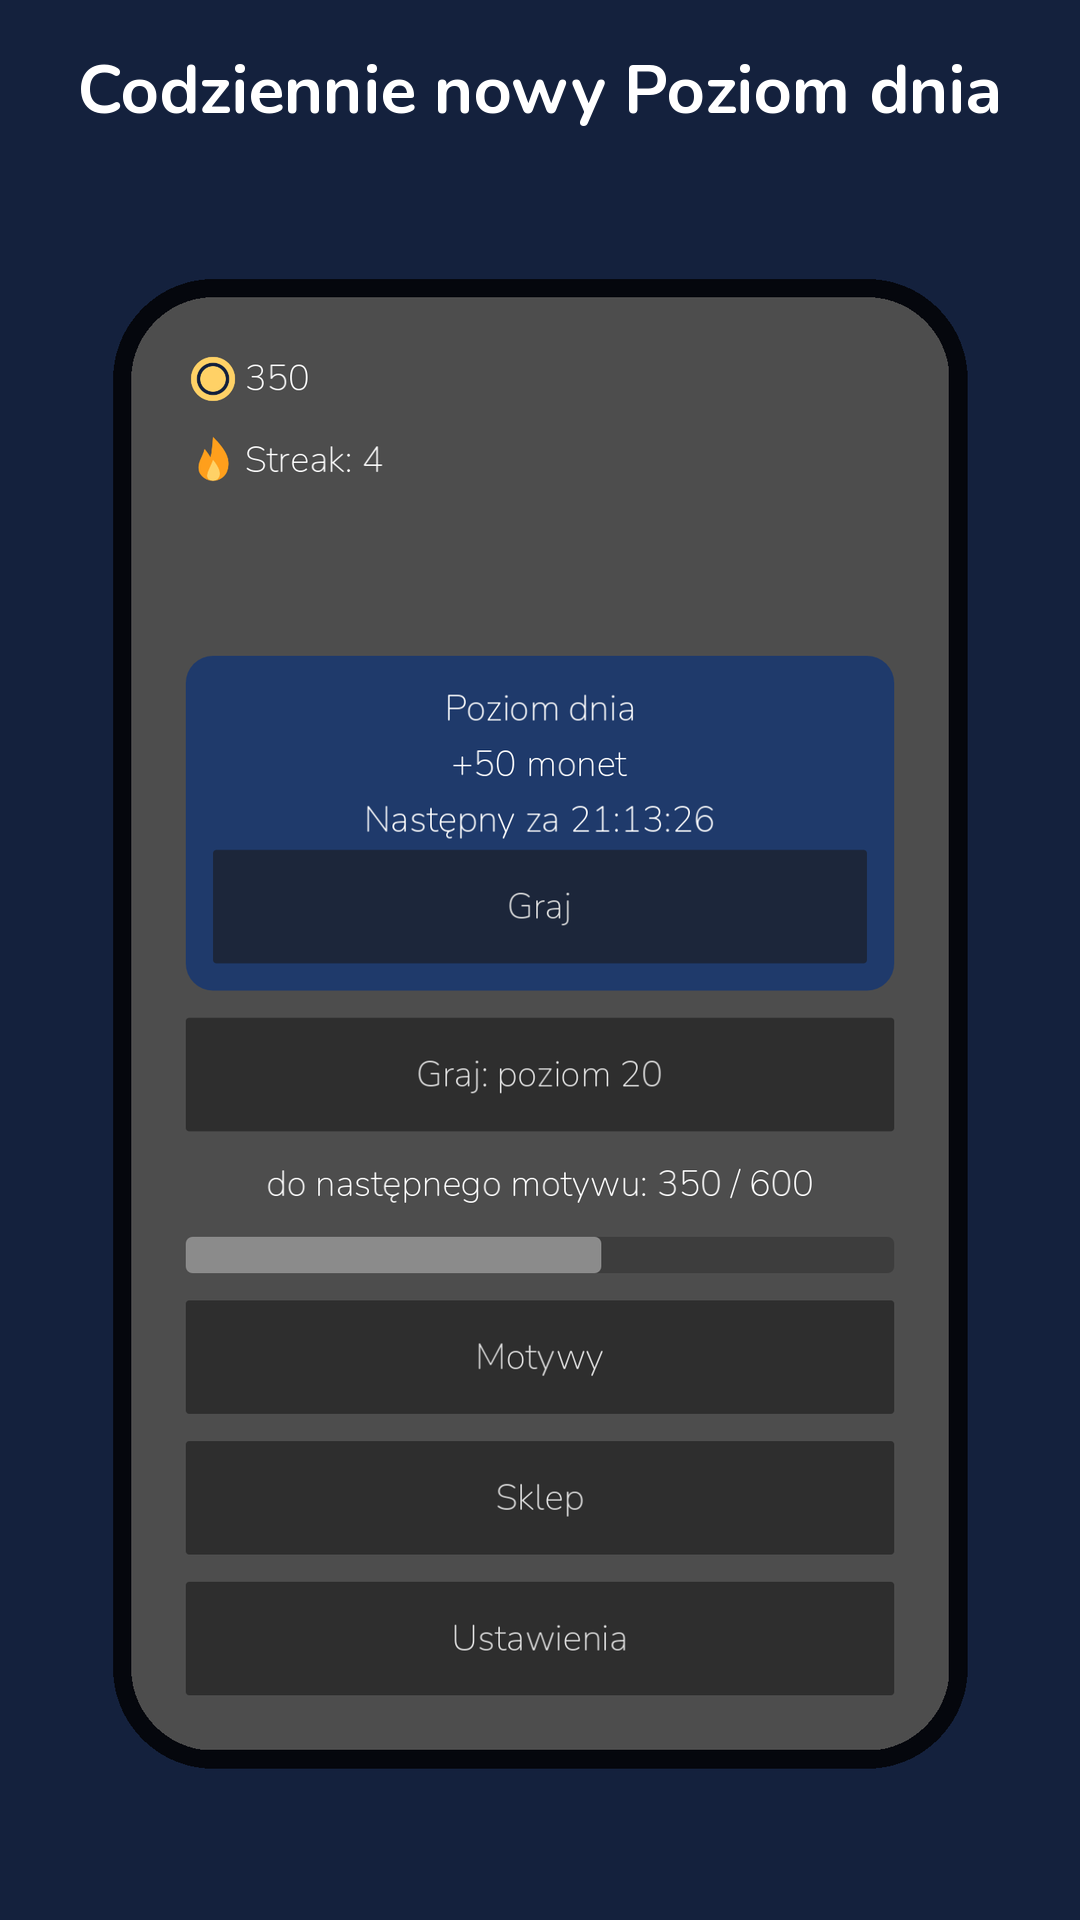
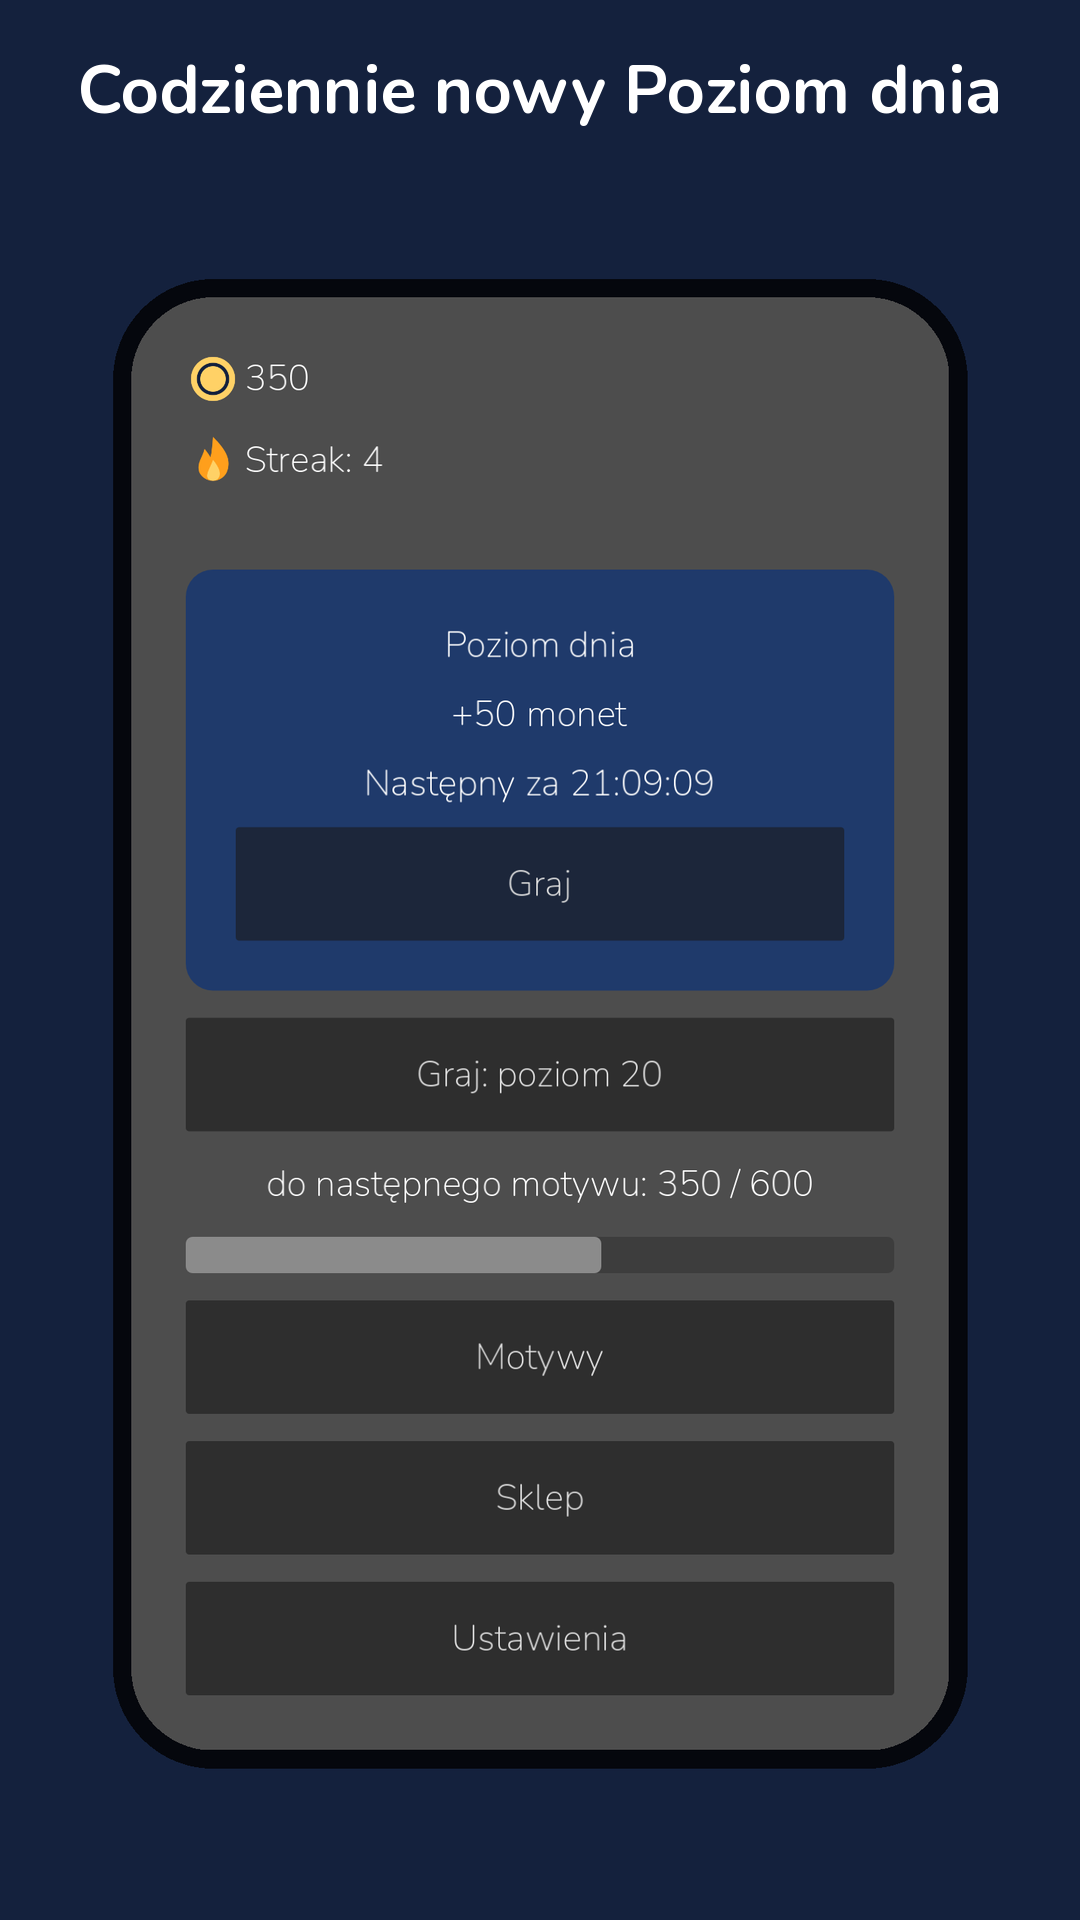
feat(T-061): odstępy w karcie Poziomu dnia na Home (CARD_PADDING/CARD_SEPARATION) + test + odświeżone screenshoty 03/04
Claude-Session: https://claude.ai/code/session_01UDf65fKwWNGfEucZKBXc7i

Changed region(s): [[0.1528, 0.2812, 0.825, 0.5]]

diff --git a/BACKLOG.md b/BACKLOG.md
@@ -48,7 +48,7 @@ Pętla bierze pierwsze `todo` z najwyższej sekcji. Zadania P0 muszą być `done
   KA: rysowanie warstw w `tube_view.gd` ograniczone do wnętrza probówki (np. dolna warstwa jako prostokąt + zaokrąglony spód o promieniu z sprite'a, albo `clip_children` z maską) dla obu kształtów z T-018; stałe proporcji jako nazwane `const`/klucze. Test gdUnit4: dla probówki pełnej i z 1 warstwą prostokąt/obrys dolnej warstwy mieści się w `Rect2` wnętrza probówki (z tolerancją 1 px) w obu kształtach. Kadr Level (01) obejrzany po `make screenshots`. `make check` zielone. ≤ ~100 linii.
   Skill: `godot-dev`
 
-- [ ] T-061 `todo` Home: odstęp nad przyciskiem „Graj” w karcie Poziomu dnia + regeneracja 15 screenshotów sklepowych (zależy od T-056, T-057, T-063) (przeniesione z Inbox)
+- [ ] T-061 `review` Home: odstęp nad przyciskiem „Graj” w karcie Poziomu dnia + regeneracja 15 screenshotów sklepowych (zależy od T-056, T-057, T-063) (przeniesione z Inbox) → PR #60
   KA: `separation` VBox karty z nazwanej stałej/stylu (≥ 12 px przy 1080×1920); test gdUnit4: odstęp między etykietą stanu a przyciskiem „Graj” ≥ stała. `make screenshots` → 15 PNG (5 kadrów × EN/PL/DE) odświeżonych i zacommitowanych, test rozmiarów z T-050 zielony; kadry 01–05 obejrzane, lista uwag w opisie PR. `make check` zielone. ≤ ~40 linii + PNG.
   Skill: `aso`
 
@@ -93,6 +93,7 @@ Pętla bierze pierwsze `todo` z najwyższej sekcji. Zadania P0 muszą być `done
 - [ ] T-069 `todo` ConsentFlow: `ok=false` z `request_consent_info_update` idzie dalej ze statusem providera (`unknown`) — rozważyć osobny event `consent:ump:error` + test; `FakeConsentProvider` nie umie zwrócić `ok=false`. Skill: ads-iap
 - [ ] T-070 `todo` Ads.show_privacy_options: po zamknięciu opcji prywatności (callback ze statusem) ponownie ustawić `provider.set_personalized` wg nowej zgody + odświeżyć `Settings.apply_from_state` przez `Ads.consent_finished`; `Ads` jako autoload może potrzebować `process_mode = PROCESS_MODE_ALWAYS` dla `poll()` przy pauzie drzewa. Skill: ads-iap
 - [ ] T-071 `todo` iOS manifest (T-053): sprawdzić, czy preset iOS Godota 4.7 generuje własny PrivacyInfo.xcprivacy z opcji `privacy/*` (nie dublować z `game/ios/PrivacyInfo.xcprivacy`) i czy engine wymaga dodatkowych kategorii required-reason API (np. DiskSpace/statfs); zweryfikować kody powodów CA92.1/C617.1/35F9.1 i linked/tracking 6 typów. Skill: store-release
+- [ ] T-072 `todo` Home/ASO: etykieta `home_streak` w PL/DE pokazuje „Streak: %d” (nieprzetłumaczone — kadr 03/04 PL/DE); przetłumaczyć („Seria: %d” / „Serie: %d”), sprawdzić inne klucze z angielskim w PL/DE; popup 04 nachodzi na kartę Poziomu dnia (ucięty napis w tle) — rozważyć ukrycie karty pod popupem. Skill: aso
 - [ ] T-067 `todo` tools/test_tools.py: `Image.open` bez `with` → ResourceWarning: unclosed file w logu testów; użyć `with Image.open(...) as im`. Skill: godot-test
 - [ ] T-058 `todo` Screenshoty iOS 6,9" (1320×2868) w `fastlane/metadata/ios/<locale>/` — tylko po weryfikacji wymaganego rozmiaru w dokumentacji App Store Connect (link w zadaniu). Skill: aso
 - [ ] T-059 `todo` `export/screenshots_raw/` jest ignorowane, ale `fastlane/metadata/android/*/images/` nie — ustalić politykę (commitowane tylko kadry sklepowe z T-050; smoke-screenshoty z `screens.txt` do `export/`). Skill: aso

diff --git a/docs/LOG.md b/docs/LOG.md
@@ -102,3 +102,4 @@ Godot 4.4.1 → 4.7.2, gdUnit4 → v7, target API 36 (ADR-008). make check zielo
 - P1: T-063 flow zgody jako własność autoloadu `Ads` (`begin_consent`, `_process→poll`, bramka PENDING dla rewarded/interstitial, `set_personalized` w AdProvider), `App._ready → Ads.begin_consent()`, przycisk „Opcje prywatności” w Settings (EN/PL/DE) widoczny tylko gdy wymagane, docs/privacy bez ZWERYFIKUJ przy ścieżce menu; 7 testów (271 gdUnit4), QA OK z uwagami (playtest 200/200, 39 interstitiali) → PR #56 (auto-merge, depends on #55). Inbox: T-070.
 - P1: T-064 `game/ios/PrivacyInfo.xcprivacy` (tracking=true, domeny [] ZWERYFIKUJ, 6 typów danych 1:1 z tabelą Privacy Labels, 3 kategorie required-reason API) + `PrivacyManifestTest` (4 testy, 29 tools) + punkt w RELEASE_CHECKLIST → PR #57 (auto-merge). Inbox: T-071.
 - P1: T-056 TubeView: warstwy jako wielokąty (`inner_rect`/`layer_rect`/`layer_polygon` static, dolna z zaokrąglonym spodem r=36 ze sprite'a, marginesy 12/13/13 z gen_assets) + 4 testy (275 gdUnit4); `make screenshots` → 9 PNG (01/02/03 × EN/PL/DE), kadr 01 obejrzany → PR #59 (auto-merge).
+- P1: T-061 karta Poziomu dnia: `MarginContainer` (CARD_PADDING=20) + `separation` CARD_SEPARATION=16 + test odstępów (276 gdUnit4); `make screenshots` → 6 PNG (03/04 × EN/PL/DE), kadry 03/04 obejrzane → PR #60 (auto-merge, depends on #59). Inbox: T-072.
